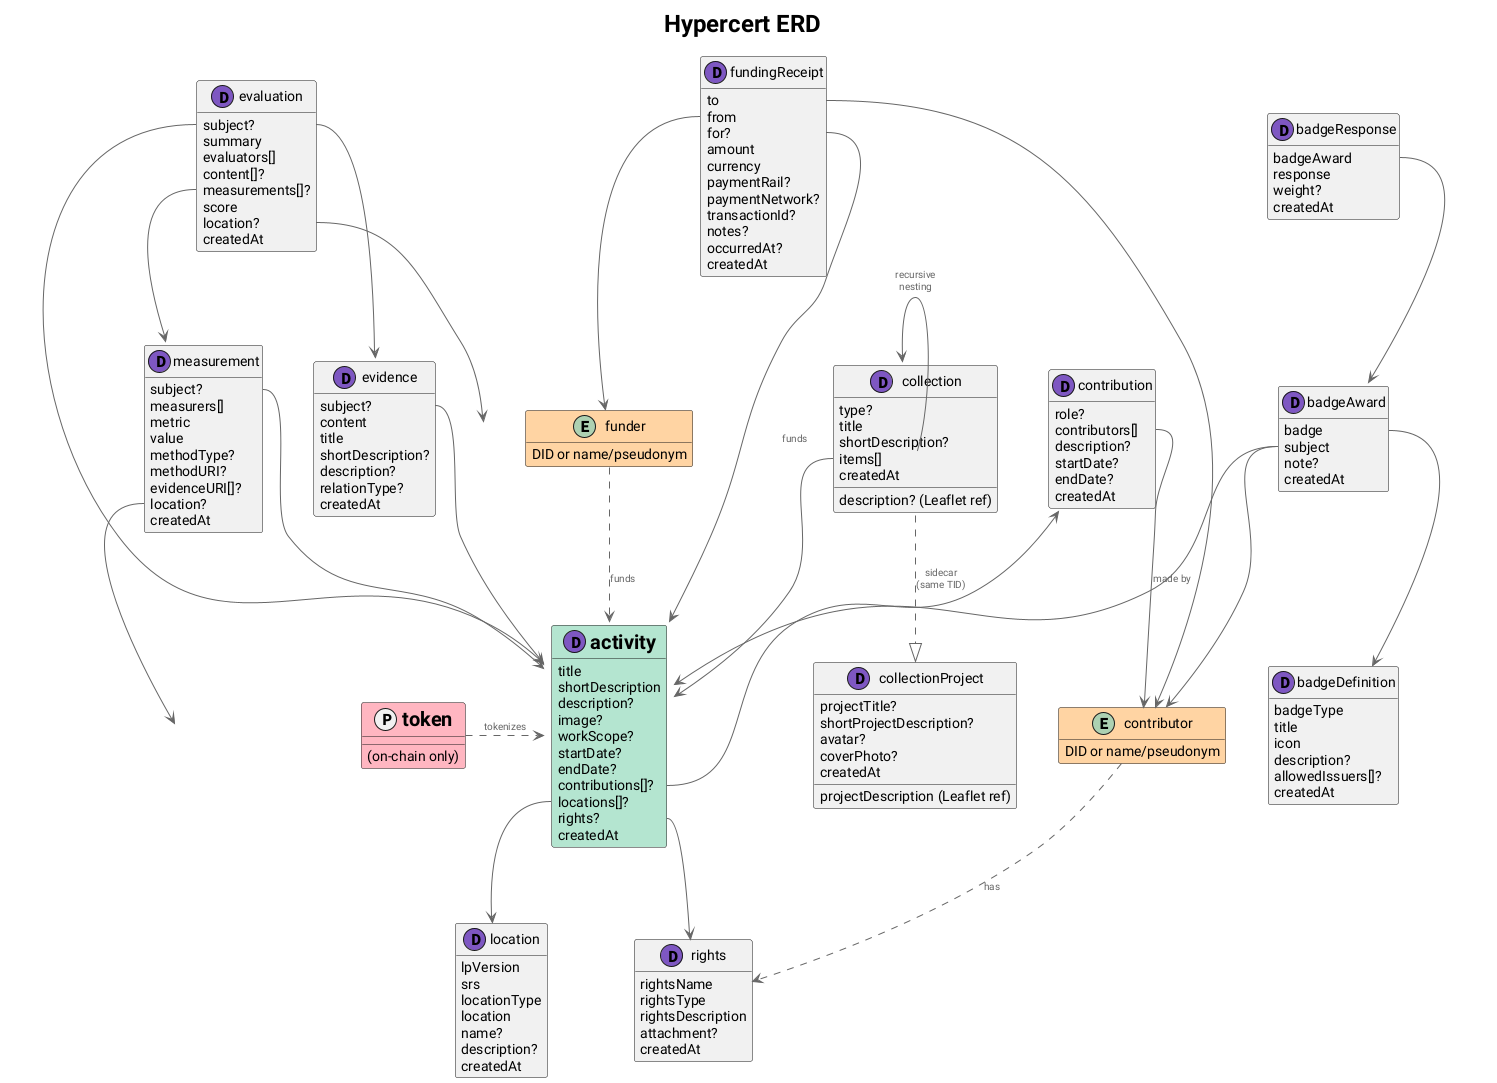
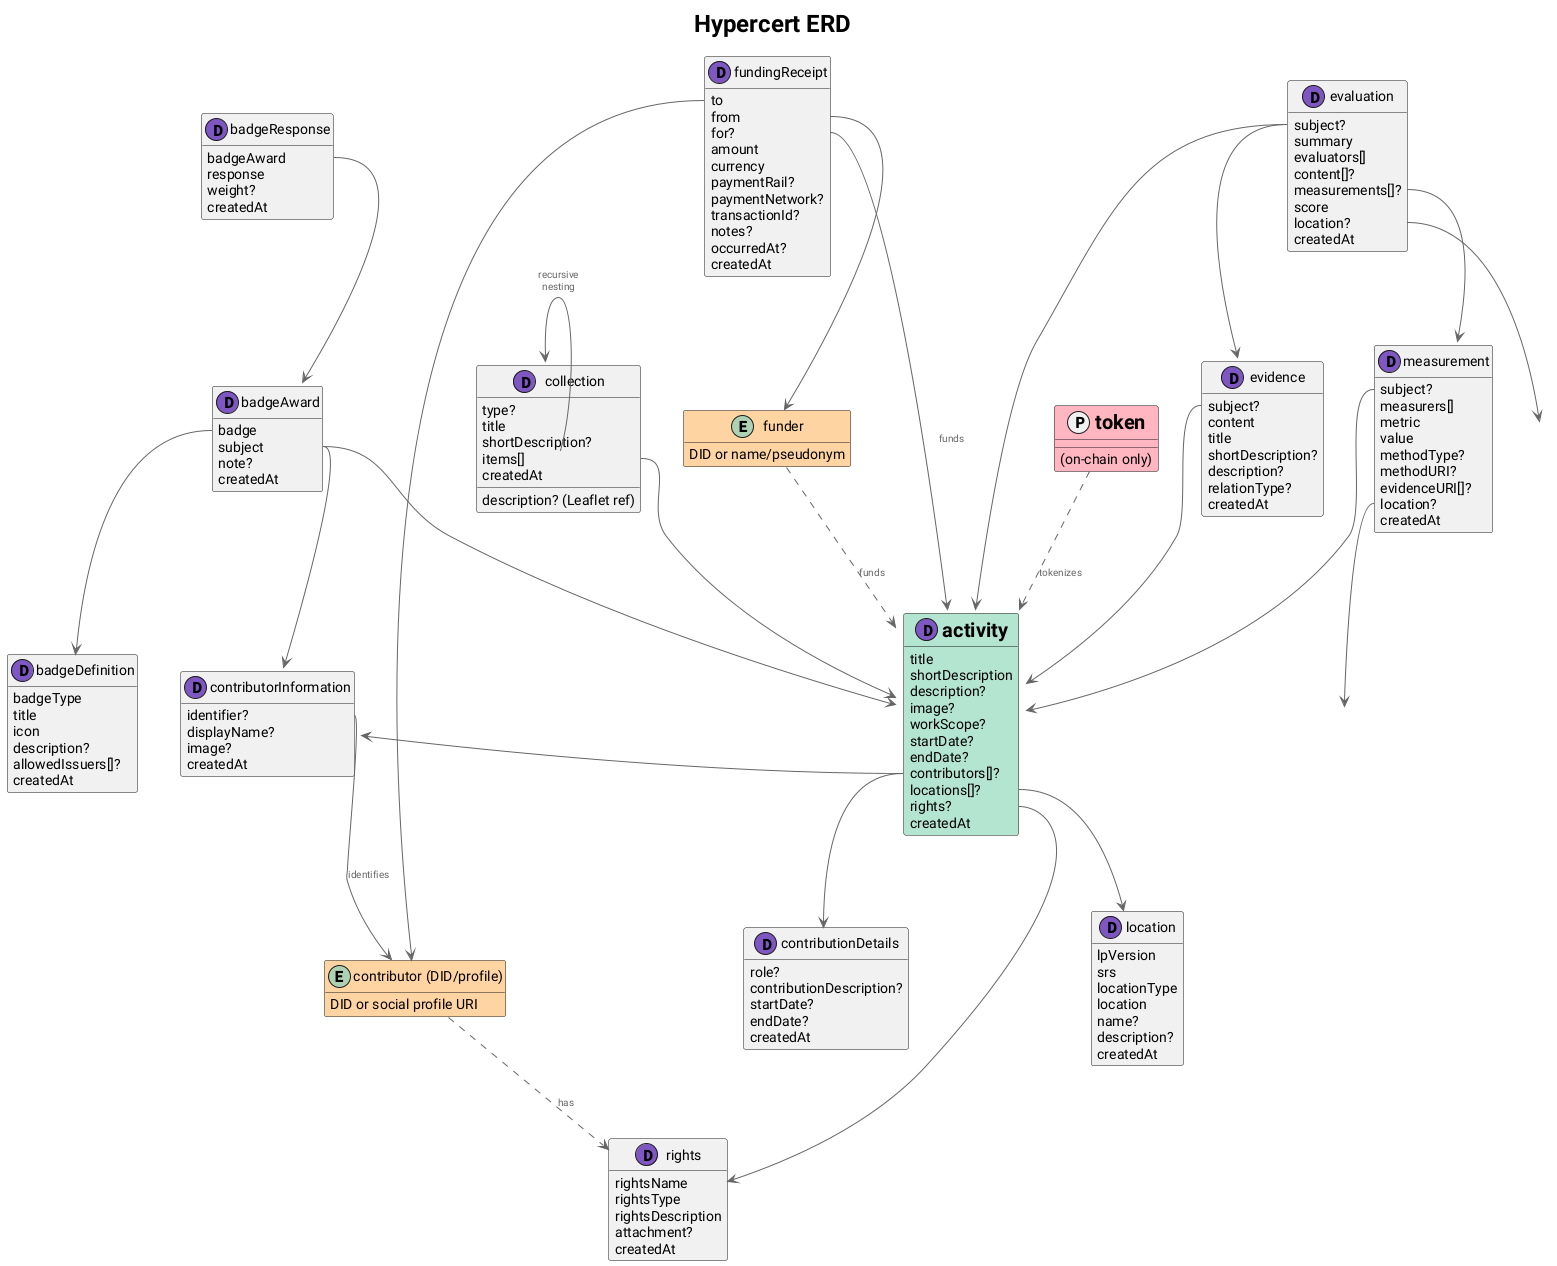
create contributor array in activity claim and split contributorJSON into two schemas

diff --git a/SCHEMAS.md b/SCHEMAS.md
@@ -15,21 +15,29 @@ Hypercerts-specific lexicons for tracking impact work and claims.
 
 #### Properties
 
-| Property           | Type     | Required | Description                                                                                                                                                                | Comments                             |
-| ------------------ | -------- | -------- | -------------------------------------------------------------------------------------------------------------------------------------------------------------------------- | ------------------------------------ |
-| `title`            | `string` | yes      | Title of the hypercert.                                                                                                                                                    | maxLength: 256                       |
-| `shortDescription` | `string` | yes      | Short blurb of the impact work done.                                                                                                                                       | maxLength: 3000, maxGraphemes: 300   |
-| `description`      | `string` | no       | Optional longer description of the impact work done.                                                                                                                       | maxLength: 30000, maxGraphemes: 3000 |
-| `image`            | `union`  | no       | The hypercert visual representation as a URI or image blob.                                                                                                                |                                      |
-| `workScope`        | `ref`    | no       | A strong reference to a record defining the scope of work. The record referenced should describe the logical scope using label-based conditions.                           |                                      |
-| `startDate`        | `string` | no       | When the work began                                                                                                                                                        |                                      |
-| `endDate`          | `string` | no       | When the work ended                                                                                                                                                        |                                      |
-| `contributions`    | `ref`    | no       | A strong reference to the contributions done to create the impact in the hypercerts. The record referenced must conform with the lexicon org.hypercerts.claim.contributor. |                                      |
-| `rights`           | `ref`    | no       | A strong reference to the rights that this hypercert has. The record referenced must conform with the lexicon org.hypercerts.claim.rights.                                 |                                      |
-| `locations`        | `ref`    | no       | An array of strong references to the location where activity was performed. The record referenced must conform with the lexicon app.certified.location.                    |                                      |
-| `createdAt`        | `string` | yes      | Client-declared timestamp when this record was originally created                                                                                                          |                                      |
+| Property           | Type     | Required | Description                                                                                                                                             | Comments                             |
+| ------------------ | -------- | -------- | ------------------------------------------------------------------------------------------------------------------------------------------------------- | ------------------------------------ |
+| `title`            | `string` | yes      | Title of the hypercert.                                                                                                                                 | maxLength: 256                       |
+| `shortDescription` | `string` | yes      | Short blurb of the impact work done.                                                                                                                    | maxLength: 3000, maxGraphemes: 300   |
+| `description`      | `string` | no       | Optional longer description of the impact work done.                                                                                                    | maxLength: 30000, maxGraphemes: 3000 |
+| `image`            | `union`  | no       | The hypercert visual representation as a URI or image blob.                                                                                             |                                      |
+| `workScope`        | `ref`    | no       | A strong reference to a record defining the scope of work. The record referenced should describe the logical scope using label-based conditions.        |                                      |
+| `startDate`        | `string` | no       | When the work began                                                                                                                                     |                                      |
+| `endDate`          | `string` | no       | When the work ended                                                                                                                                     |                                      |
+| `contributors`     | `ref`    | no       | An array of contributor objects, each containing contributor information, weight, and contribution details.                                             |                                      |
+| `rights`           | `ref`    | no       | A strong reference to the rights that this hypercert has. The record referenced must conform with the lexicon org.hypercerts.claim.rights.              |                                      |
+| `locations`        | `ref`    | no       | An array of strong references to the location where activity was performed. The record referenced must conform with the lexicon app.certified.location. |                                      |
+| `createdAt`        | `string` | yes      | Client-declared timestamp when this record was originally created                                                                                       |                                      |
 
 #### Defs
+
+##### contributor
+
+| Property                 | Type     | Required | Description                                                                                                                                                                                                                                                        |
+| ------------------------ | -------- | -------- | ------------------------------------------------------------------------------------------------------------------------------------------------------------------------------------------------------------------------------------------------------------------ |
+| `contributorInformation` | `union`  | yes      | Contributor information as a string (DID or identifier) or strong reference to for instance org.hypercerts.claim.contributorInformation#main.                                                                                                                      |
+| `weight`                 | `string` | no       | The relative weight/importance of this contribution (stored as a string to avoid float precision issues). Must be a positive numeric value. Weights do not need to sum to a specific total; normalization can be performed by the consuming application as needed. |
+| `contributionDetails`    | `union`  | no       | Contribution details as a string or strong reference to org.hypercerts.claim.contributionDetails#main.                                                                                                                                                             |
 
 ##### activityWeight
 

diff --git a/.changeset/refactor-contributions-structure.md b/.changeset/refactor-contributions-structure.md
@@ -1,0 +1,26 @@
+---
+"@hypercerts-org/lexicon": minor
+---
+
+Refactor contributions structure and split contributor lexicon
+
+**Breaking Changes:**
+
+- **Activity lexicon (`org.hypercerts.claim.activity`):**
+  - Renamed `contributions` field to `contributors`
+  - Replaced `contributions` array (array of strongRefs) with new `contributors` array containing contributor objects
+  - Each contributor object has three fields:
+    - `contributorInformation` (required): string (DID/identifier) or strongRef to `org.hypercerts.claim.contributorInformation#main`
+    - `weight` (optional): positive number (stored as string)
+    - `contributionDetails` (optional): string or strongRef to `org.hypercerts.claim.contributionDetails#main`
+  - Renamed internal `contribution` object type to `contributor`
+  - Renamed string wrapper defs: `contributorInformationString` → `contributorIdentity`, `contributionDetailsString` → `contributorRole`
+  - Updated `contributorRole` string limits: maxLength 10000, maxGraphemes 1000
+
+- **Contributor lexicon (`org.hypercerts.claim.contributor`):**
+  - Split into two separate lexicon files:
+    - `org.hypercerts.claim.contributorInformation`: new lexicon file containing `identifier`, `displayName`, `image` (contributor profile information)
+    - `org.hypercerts.claim.contributionDetails`: new lexicon file containing `role`, `contributionDescription`, `startDate`, `endDate` (contribution-specific details)
+  - The original `org.hypercerts.claim.contributor` lexicon has been removed
+
+Existing contributions using the old structure will need to be migrated to the new format.
